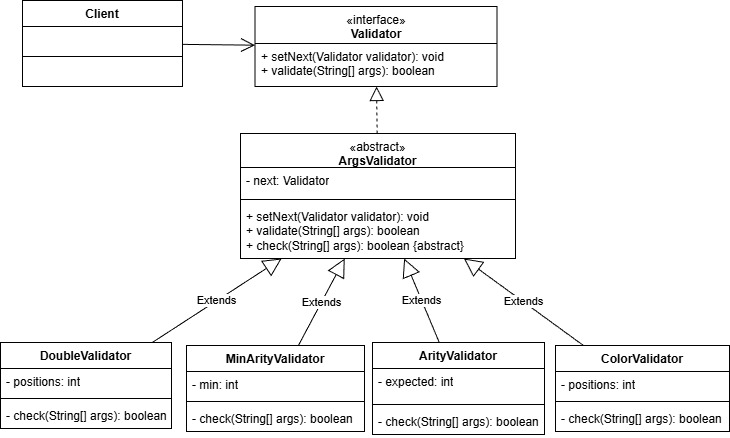
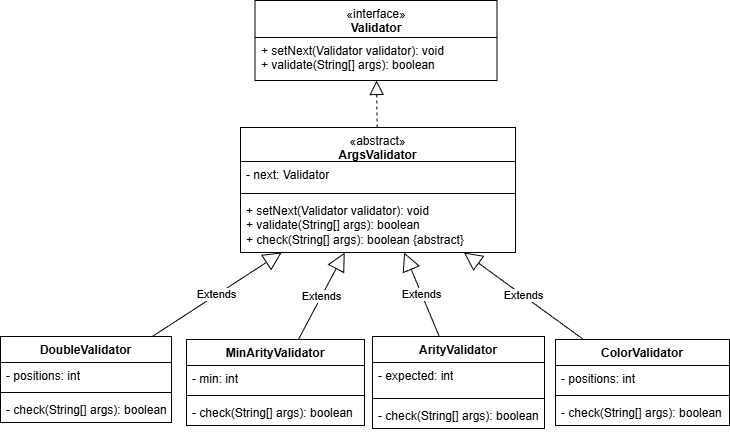
update

diff --git a/doc/rapport.tex b/doc/rapport.tex
@@ -71,7 +71,7 @@ ConcreteCommand & \texttt{RectCommand}, \texttt{CircCommand}, \texttt{SaveComman
 \hline
 Invoker & \texttt{Editor} \\
 \hline
-Receiver & \texttt{DrawingModel} \\
+Receiver & \texttt{DrawingModel, V2bmpConverter, XmlSaver, XmlLoader et DrawingBuilder} \\
 \hline
 \end{tabular}
 
@@ -127,7 +127,7 @@ Leaf & \texttt{Rectangle}, \texttt{Circle}, \texttt{Line}, \texttt{Ellipse} \\
 \hline
 Composite & \texttt{Group} \\
 \hline
-Client & \texttt{DrawingModel}, \texttt{XmlSaver}, \texttt{GraphicViewer} \\
+Client & \texttt{DrawingModel}, \texttt{XmlSaver}, \texttt{GraphicViewer}, \texttt{DrawingBuilder} et \texttt{V2bmpConverter} \\
 \hline
 \end{tabular}
 
@@ -143,13 +143,13 @@ Le modèle contient différentes formes (\texttt{Rectangle}, \texttt{Circle}, \t
 \hline
 Visitor & \texttt{DrawingVisitor} \\
 \hline
-ConcreteVisitor & \texttt{GraphicViewer}, \texttt{XmlSaver} \\
+ConcreteVisitor & \texttt{GraphicViewer}, \texttt{XmlSaver} et \texttt{V2bmpConverter} \\
 \hline
 Element & \texttt{Drawable} \\
 \hline
 ConcreteElement & \texttt{Rectangle}, \texttt{Circle}, \texttt{Line}, \texttt{Ellipse}, \texttt{Group} \\
 \hline
-ObjectStructure & \texttt{DrawingModel} \\
+ObjectStructure & \texttt{DrawingModel} (liste racine) et \texttt{Group} imbriqués (listes d’enfants)\\
 \hline
 \end{tabular}
 
@@ -177,7 +177,7 @@ AbstractHandler & \texttt{ArgsValidator} \\
 \hline
 ConcreteHandler & \texttt{ArityValidator}, \texttt{MinArityValidator}, \texttt{DoubleValidator}, \texttt{ColorValidator} \\
 \hline
-Client & \texttt{Editor} \\
+Client & \texttt{Les différentes commandes} \\
 \hline
 \end{tabular}
 
@@ -211,6 +211,8 @@ Concrete Builder & \texttt{NormalDrawingBuilder} \\
 \hline
 Product & \texttt{List<Drawable>} \\
 \hline
+Client & \texttt{MergeCommand} et \texttt{LoadCommand} \\
+\hline
 \end{tabular}
 
 \begin{center}
@@ -231,14 +233,14 @@ Product & \texttt{List<Drawable>} \\
 
 L'application adopte une architecture MVC (Modèle - Vue - Controleur).\\
 Cette architecture applique une séparation des responsabilités avec le modèle (\texttt{DrawingModel}, formes et groupe) qui concentre l'état et les règles métier.\\
-Les différents contrôleurs (\texttt{Editor}, commandes, registre et validation) orchestre les entrées utilisateur sans implémenter le rendu ni la persistance XML.\\
+Les différents contrôleurs (\texttt{Editor}, commandes et validation) orchestre les entrées utilisateur sans implémenter le rendu ni la persistance des données.\\
 La vue (\texttt{GraphicViewer}) ne fait qu'afficher et réagit aux changements via le pattern Observeur.\\\\
 
-Le principe de responsabilité unique se lit dans le découpage des commandes (\texttt{EditorCommand} et sous-classes), des validateurs de la chaîne de responsabilité et des visiteurs (\texttt{XmlSaver}, \texttt{GraphicViewer}).\\
-Le principe ouvert/fermé se retrouve notamment via le Visiteur et le Composite puisqu'ajouter une opération sur les formes (export, affichage) revient à écrire un nouveau visiteur sans modifier les classes de formes.\\
-L'inversion de dépendances apparaît lorsque le contrôle et la fabrique s'appuient sur des abstractions (\texttt{EditorCommand}, \texttt{Validator}, \texttt{Drawable}) plutôt que sur des implémentations figées.\\\\
-
-Par manque de temps, \texttt{XmlLoader} et le \texttt{Builder} sont instanciés directement dans certaines commandes. Une possible évolution serait d'injecter une abstraction dédiée au chargement (par exemple un service \texttt{DrawingImporter}) afin d'améliorer le découplage. À défaut, un \texttt{EditorContext} pourrait au moins centraliser les dépendances partagées des commandes.\\\\
+Le principe SRP (Single Responsibility Principle) se voit par le fait que chaque classe a une unique responsabilité et est entièrement encapsulée.\\
+Le principe OCP (Open/Close Principle) se retrouve notamment via le Visiteur et le Composite puisqu'ajouter une opération sur les formes (export, affichage) revient à écrire un nouveau visiteur sans modifier les classes de formes.\\
+Le principe LSP (Liskov Substitution Principle) se retrouve via l’interface Drawable. Toute forme (Line, Rectangle, Circle, Ellipse) ainsi que le composite Group sont interchangeables. Le code client (save, parcours de l’historique, visiteurs) appelle uniquement accept(visitor) sans distinguer feuille et groupe.\\
+Le principe ISP (Interface Segregation Principle) apparaît par des interfaces spécialisées : Drawable, DrawingVisitor, EditorCommand, Validator, DrawingBuilder. \\
+Le principe DIP (Dependency Inversion Principle) se voit dans l’injection des abstractions. Les commandes et la vue dépendent de Drawable, DrawingVisitor, DrawingBuilder et Validator, tandis que les implémentations concrètes (XmlSaver, NormalDrawingBuilder, formes géométriques) sont fournies au niveau de l’assemblage (EditMain).\\
 
 \newpage
 

diff --git a/src/main/java/com/drawing/model/converter/package-info.java b/src/main/java/com/drawing/model/converter/package-info.java
@@ -1,0 +1,7 @@
+/**
+ * Export du modèle vectoriel vers d'autres formats (ex. PNG).
+ *
+ * @author Florian Pépin
+ * @version 1.0
+ */
+package com.drawing.model.converter;

diff --git a/src/main/java/com/drawing/model/xml/package-info.java b/src/main/java/com/drawing/model/xml/package-info.java
@@ -1,0 +1,7 @@
+/**
+ * Sérialisation et désérialisation du modèle au format XML (.vec).
+ *
+ * @author Florian Pépin
+ * @version 1.0
+ */
+package com.drawing.model.xml;

diff --git a/src/main/java/com/drawing/controller/command/MergeCommand.java b/src/main/java/com/drawing/controller/command/MergeCommand.java
@@ -1,7 +1,7 @@
 package com.drawing.controller.command;
 
-import com.drawing.controller.xml.XmlLoader;
-import com.drawing.controller.xml.XmlSaver;
+import com.drawing.model.xml.XmlLoader;
+import com.drawing.model.xml.XmlSaver;
 import com.drawing.model.builder.DrawingBuilder;
 import com.drawing.model.shape.Drawable;
 import com.drawing.model.shape.Group;

diff --git a/src/main/java/com/drawing/EditMain.java b/src/main/java/com/drawing/EditMain.java
@@ -3,7 +3,7 @@ package com.drawing;
 import com.drawing.controller.Editor;
 import com.drawing.controller.command.*;
 import com.drawing.controller.validation.*;
-import com.drawing.controller.xml.*;
+import com.drawing.model.xml.*;
 import com.drawing.model.DrawingModel;
 import com.drawing.model.builder.*;
 import com.drawing.view.GraphicViewer;

diff --git a/src/main/java/com/drawing/MergeMain.java b/src/main/java/com/drawing/MergeMain.java
@@ -3,7 +3,7 @@ package com.drawing;
 import com.drawing.controller.Editor;
 import com.drawing.controller.command.MergeCommand;
 import com.drawing.controller.validation.ArityValidator;
-import com.drawing.controller.xml.XmlLoader;
+import com.drawing.model.xml.XmlLoader;
 import com.drawing.model.builder.DrawingBuilder;
 import com.drawing.model.builder.NormalDrawingBuilder;
 

diff --git a/src/main/java/com/drawing/V2bmpMain.java b/src/main/java/com/drawing/V2bmpMain.java
@@ -2,7 +2,7 @@ package com.drawing;
 
 import com.drawing.controller.Editor;
 import com.drawing.controller.command.V2bmpCommand;
-import com.drawing.controller.converter.V2bmpConverter;
+import com.drawing.model.converter.V2bmpConverter;
 import com.drawing.controller.validation.ArityValidator;
 
 /**

diff --git a/src/main/java/com/drawing/controller/command/LoadCommand.java b/src/main/java/com/drawing/controller/command/LoadCommand.java
@@ -1,6 +1,6 @@
 package com.drawing.controller.command;
 
-import com.drawing.controller.xml.XmlLoader;
+import com.drawing.model.xml.XmlLoader;
 import com.drawing.model.DrawingModel;
 import com.drawing.model.builder.DrawingBuilder;
 import com.drawing.controller.validation.Validator;

diff --git a/src/main/java/com/drawing/controller/command/SaveCommand.java b/src/main/java/com/drawing/controller/command/SaveCommand.java
@@ -1,6 +1,6 @@
 package com.drawing.controller.command;
 
-import com.drawing.controller.xml.XmlSaver;
+import com.drawing.model.xml.XmlSaver;
 import com.drawing.model.DrawingModel;
 import com.drawing.model.shape.Drawable;
 import com.drawing.controller.validation.Validator;

diff --git a/src/main/java/com/drawing/controller/command/V2bmpCommand.java b/src/main/java/com/drawing/controller/command/V2bmpCommand.java
@@ -1,6 +1,6 @@
 package com.drawing.controller.command;
 
-import com.drawing.controller.converter.V2bmpConverter;
+import com.drawing.model.converter.V2bmpConverter;
 import com.drawing.controller.validation.Validator;
 
 /**